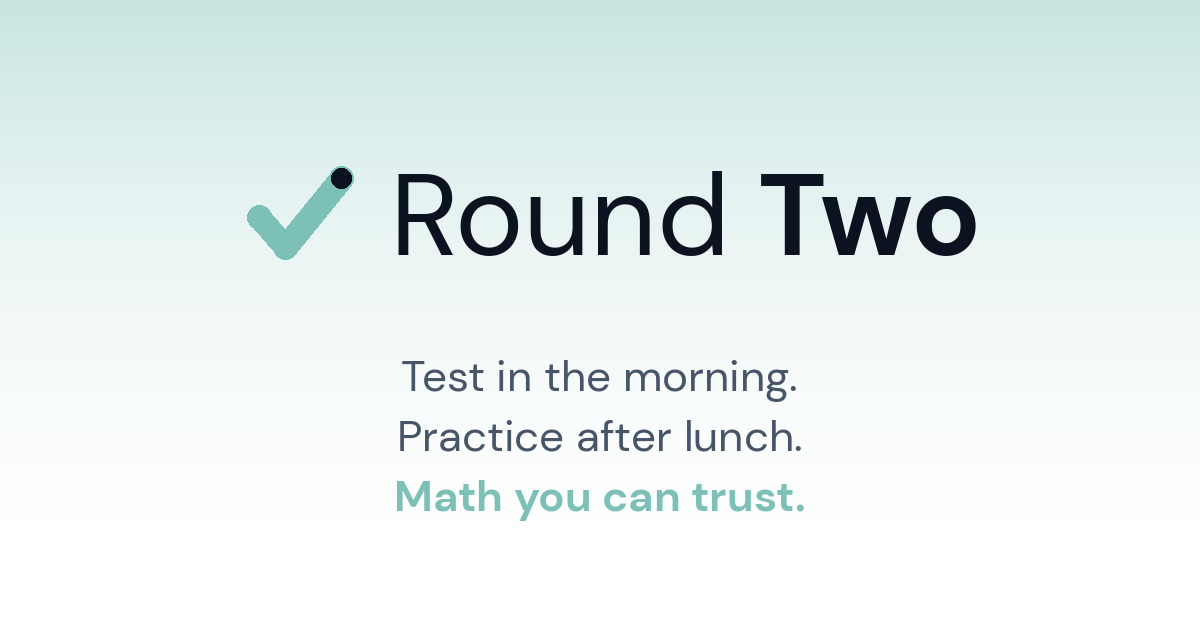
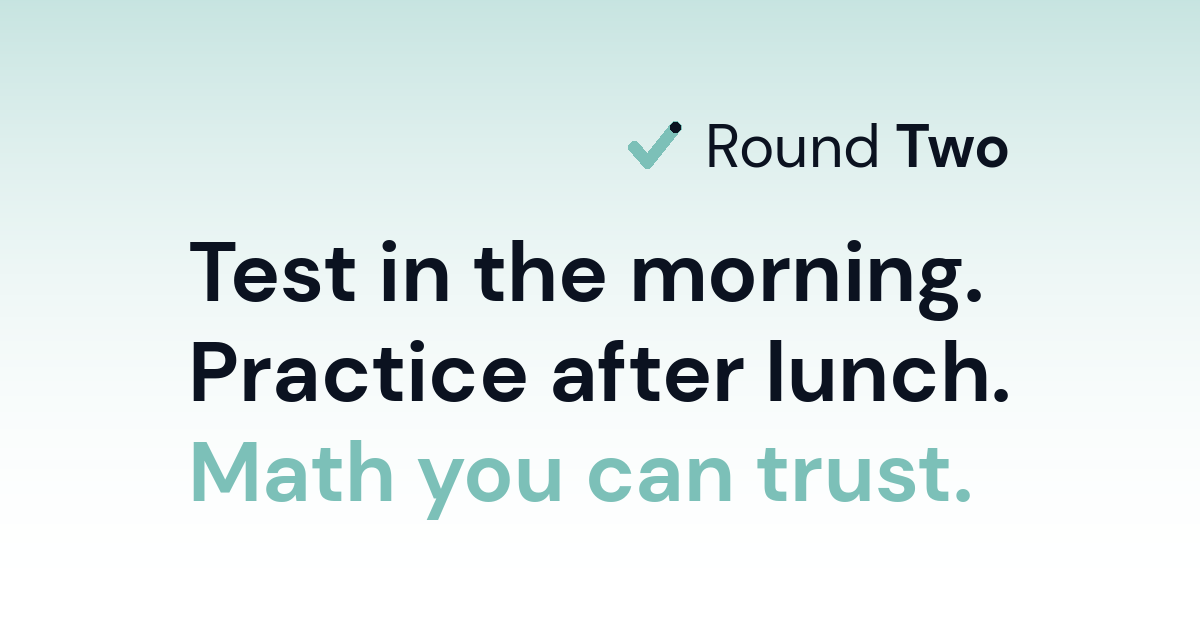
LinkedIn graphic: heavy tagline weight, lockup right-justified at ~50% width
Restructured per user spec:

- Tagline now in heavy DM Sans Bold at 84 px, all three lines sharing
  the same weight as the app's hero headline. Last line in glacier as
  the visual hook. Reads as one bold typographic block.
- Lockup sized to ~48% of the tagline block's width (mark 78 px +
  wordmark Regular/Bold at 60 px), right-justified so its right edge
  aligns with the tagline's right edge. The whole composition lands
  as a single centered group on the canvas.
- 56 px of breathing room between the lockup bottom and the first
  tagline line top.
- Glacier wash gradient unchanged (saturated at top, fading to white).

https://claude.ai/code/session_017A9rQx86Juxytge4ZEmx55

Changed region(s): [[0.1542, 0.1818, 0.8633, 0.5152], [0.1542, 0.6667, 0.8017, 0.8485], [0.1542, 0.5455, 0.8633, 0.6364]]

diff --git a/brand/social/generate_linkedin.py b/brand/social/generate_linkedin.py
@@ -2,9 +2,15 @@
 
 Output: brand/social/round-two-linkedin.png  (1200x627, LinkedIn link card spec)
 
-Composition: glacier wash background, centered brand lockup (mark + DM Sans
-wordmark), tagline below. Brand-faithful — uses the same color tokens as the
-app and the same DM Sans weights.
+Composition:
+  - Three-line tagline in heavy DM Sans Bold ("Test in the morning. /
+    Practice after lunch. / Math you can trust.") with the last line
+    in glacier — same weight as the app's hero headline.
+  - Brand lockup above, sized to ~50% of the tagline block's width,
+    right-justified so its right edge aligns with the tagline's right
+    edge, with breathing room between it and the first tagline line.
+  - Glacier-wash background flowing top-down (saturated at top,
+    fading to white).
 """
 from __future__ import annotations
 from pathlib import Path
@@ -18,7 +24,6 @@ W, H = 1200, 627
 
 GLACIER = (124, 192, 184)
 CHARCOAL = (11, 18, 32)
-MUTED = (71, 85, 105)
 WHITE = (255, 255, 255)
 
 DMSANS_BOLD = "/tmp/fonts/DMSans-Bold.ttf"
@@ -28,17 +33,14 @@ OUT = Path(__file__).parent / "round-two-linkedin.png"
 
 
 # ---------------------------------------------------------------------------
-# Background — glacier wash flowing top down (saturated at top, white at bottom)
+# Background — glacier wash flowing top down
 # ---------------------------------------------------------------------------
 
 def render_background() -> Image.Image:
     img = Image.new("RGB", (W, H), WHITE)
     overlay = Image.new("RGBA", (W, H), (0, 0, 0, 0))
     px = overlay.load()
-    # Top of the card sits at ~43% glacier alpha and tapers to 0 at the
-    # bottom on a quadratic ease-out — the saturation collapses fast in
-    # the upper third so the tagline area lands on near-white for legibility.
-    max_alpha = 110
+    max_alpha = 110  # ~43% glacier at the very top
     for y in range(H):
         t = y / H
         alpha = int(max_alpha * (1 - t) * (1 - t))
@@ -53,13 +55,9 @@ def render_background() -> Image.Image:
 # ---------------------------------------------------------------------------
 
 def draw_mark(img: Image.Image, cx: int, cy: int, size: int) -> None:
-    """Draw the brand mark centered at (cx, cy) at `size` px tall.
-
-    Mirrors brand/mark.svg: viewBox 64x64, path M 16 34 L 27 46 L 50 18 with
-    stroke width 10 and round caps, plus a charcoal circle r=4.5 at (50, 18).
-    """
+    """Draw the brand mark centered at (cx, cy) at `size` px tall."""
     draw = ImageDraw.Draw(img, "RGBA")
-    s = size / 64  # scale factor
+    s = size / 64
 
     def pt(x, y):
         return (cx - size // 2 + int(x * s), cy - size // 2 + int(y * s))
@@ -69,16 +67,12 @@ def draw_mark(img: Image.Image, cx: int, cy: int, size: int) -> None:
     p3 = pt(50, 18)
     stroke_w = max(2, int(10 * s))
 
-    # Two segments with round joins. Pillow's line() doesn't support round
-    # caps natively in older versions, so we draw the segments and stamp
-    # circles at each endpoint to round them off.
     draw.line([p1, p2], fill=GLACIER, width=stroke_w)
     draw.line([p2, p3], fill=GLACIER, width=stroke_w)
     for cx_, cy_ in (p1, p2, p3):
         r = stroke_w // 2
         draw.ellipse((cx_ - r, cy_ - r, cx_ + r, cy_ + r), fill=GLACIER)
 
-    # Charcoal dot at the upstroke tip (signature element).
     dot_r = max(3, int(4.5 * s))
     draw.ellipse((p3[0] - dot_r, p3[1] - dot_r, p3[0] + dot_r, p3[1] + dot_r),
                  fill=CHARCOAL)
@@ -92,17 +86,49 @@ def main() -> None:
     img = render_background()
     draw = ImageDraw.Draw(img)
 
-    # Lockup: mark on the left, "Round Two" wordmark to its right. Sized so
-    # the combined unit reads as the dominant element on the card.
-    # Per brand/wordmark.svg the wordmark uses mixed weights — "Round" at
-    # Regular (400), "Two" at Bold (700) — so we measure and draw each part
-    # separately to preserve that weight contrast.
-    mark_size = 156
-    wm_regular = ImageFont.truetype(DMSANS_REGULAR, 116)
-    wm_bold = ImageFont.truetype(DMSANS_BOLD, 116)
-    word_a = "Round"
-    word_b = " Two"
+    # 1. Render the three-line tagline first to learn its block width and
+    #    height. Same weight as the app's hero headline (DM Sans Bold) so
+    #    the social card primes recognition. Last line in glacier.
+    tag_size = 84
+    tag_font = ImageFont.truetype(DMSANS_BOLD, tag_size)
+    line_gap = 16  # extra leading between tagline lines
+    lines = [
+        ("Test in the morning.", CHARCOAL),
+        ("Practice after lunch.", CHARCOAL),
+        ("Math you can trust.", GLACIER),
+    ]
 
+    measured = []
+    for text, color in lines:
+        bbox = draw.textbbox((0, 0), text, font=tag_font)
+        measured.append({
+            "text": text,
+            "color": color,
+            "w": bbox[2] - bbox[0],
+            "h": bbox[3] - bbox[1],
+            "top": bbox[1],
+            "ascent_to_baseline": bbox[3],
+        })
+
+    line_h = tag_size + line_gap
+    tag_block_w = max(m["w"] for m in measured)
+    tag_block_h = line_h * (len(lines) - 1) + measured[-1]["h"]
+
+    # 2. Lockup target width = 50% of tagline block width. Pick a wordmark
+    #    font size and mark size that combine to approximately that width,
+    #    then right-justify the actual rendered lockup to the tagline's
+    #    right edge (so it lines up cleanly even if the rendered width is
+    #    a few px off the 50% target).
+    lockup_target_w = tag_block_w // 2
+
+    # Tune these to land near 50% of tagline_w. With tagline at 84px Bold
+    # the longest line is ~770 px → target lockup ~385 px → mark ~74 px +
+    # wordmark Regular/Bold at ~58 px font lands close.
+    mark_size = 78
+    wordmark_size = 60
+    wm_regular = ImageFont.truetype(DMSANS_REGULAR, wordmark_size)
+    wm_bold = ImageFont.truetype(DMSANS_BOLD, wordmark_size)
+    word_a, word_b = "Round", " Two"
     a_bbox = draw.textbbox((0, 0), word_a, font=wm_regular)
     b_bbox = draw.textbbox((0, 0), word_b, font=wm_bold)
     a_w = a_bbox[2] - a_bbox[0]
@@ -110,46 +136,43 @@ def main() -> None:
     wm_w = a_w + b_w
     wm_h = max(a_bbox[3] - a_bbox[1], b_bbox[3] - b_bbox[1])
     wm_top = min(a_bbox[1], b_bbox[1])
-
-    gap = 14  # tight pixel gap between mark and wordmark
+    gap = 12  # tight mark→wordmark gap so they read as one element
     lockup_w = mark_size + gap + wm_w
 
-    # Position lockup horizontally centered. Three-line tagline below
-    # needs more room than a two-line one, so push the lockup higher.
-    lockup_cx = W // 2
-    lockup_cy = int(H * 0.34)
+    # Vertical composition: total content height = lockup_size + breathing
+    # room + tagline_block_h. Vertically center the whole stack on canvas.
+    breathing = 56  # space between lockup bottom and first tagline line top
+    total_h = mark_size + breathing + tag_block_h
+    content_top = (H - total_h) // 2
 
-    mark_cx = lockup_cx - lockup_w // 2 + mark_size // 2
-    mark_cy = lockup_cy
-    draw_mark(img, mark_cx, mark_cy, mark_size)
+    # 3. Position tagline block: left edge centered horizontally on canvas
+    #    (so the whole composition reads as a single centered group).
+    tag_left = (W - tag_block_w) // 2
+    tag_right = tag_left + tag_block_w
+    tag_top = content_top + mark_size + breathing
 
-    # Wordmark — vertical-center the optical baseline against the mark.
-    wm_x = lockup_cx - lockup_w // 2 + mark_size + gap
+    # 4. Position lockup: right edge aligns with tagline right edge.
+    lockup_right = tag_right
+    lockup_left = lockup_right - lockup_w
+    lockup_cy = content_top + mark_size // 2
+
+    mark_cx = lockup_left + mark_size // 2
+    draw_mark(img, mark_cx, lockup_cy, mark_size)
+
+    wm_x = lockup_left + mark_size + gap
     wm_y = lockup_cy - wm_h // 2 - wm_top
     draw.text((wm_x, wm_y), word_a, font=wm_regular, fill=CHARCOAL)
     draw.text((wm_x + a_w, wm_y), word_b, font=wm_bold, fill=CHARCOAL)
 
-    # Three-line tagline below the lockup. Same copy as the app's hero
-    # headline so the social card primes recognition. First two lines in
-    # charcoal-muted regular, third in glacier bold as the visual hook.
-    tag_regular = ImageFont.truetype(DMSANS_REGULAR, 44)
-    tag_bold = ImageFont.truetype(DMSANS_BOLD, 44)
-    lines = [
-        ("Test in the morning.", tag_regular, MUTED),
-        ("Practice after lunch.", tag_regular, MUTED),
-        ("Math you can trust.", tag_bold, GLACIER),
-    ]
-
-    tag_y = lockup_cy + mark_size // 2 + 56
-    line_h = 60
-    for i, (text, font, color) in enumerate(lines):
-        bbox = draw.textbbox((0, 0), text, font=font)
-        w = bbox[2] - bbox[0]
-        draw.text(((W - w) // 2, tag_y + i * line_h), text, font=font, fill=color)
+    # 5. Draw the tagline lines, all sharing the same left edge.
+    for i, m in enumerate(measured):
+        y = tag_top + i * line_h - m["top"]
+        draw.text((tag_left, y), m["text"], font=tag_font, fill=m["color"])
 
     OUT.parent.mkdir(parents=True, exist_ok=True)
     img.save(OUT, "PNG", optimize=True)
-    print(f"Wrote {OUT}  ({W}x{H})")
+    print(f"Wrote {OUT}  ({W}x{H})  lockup_w={lockup_w}  tagline_w={tag_block_w}  "
+          f"ratio={lockup_w / tag_block_w:.2f}")
 
 
 if __name__ == "__main__":
